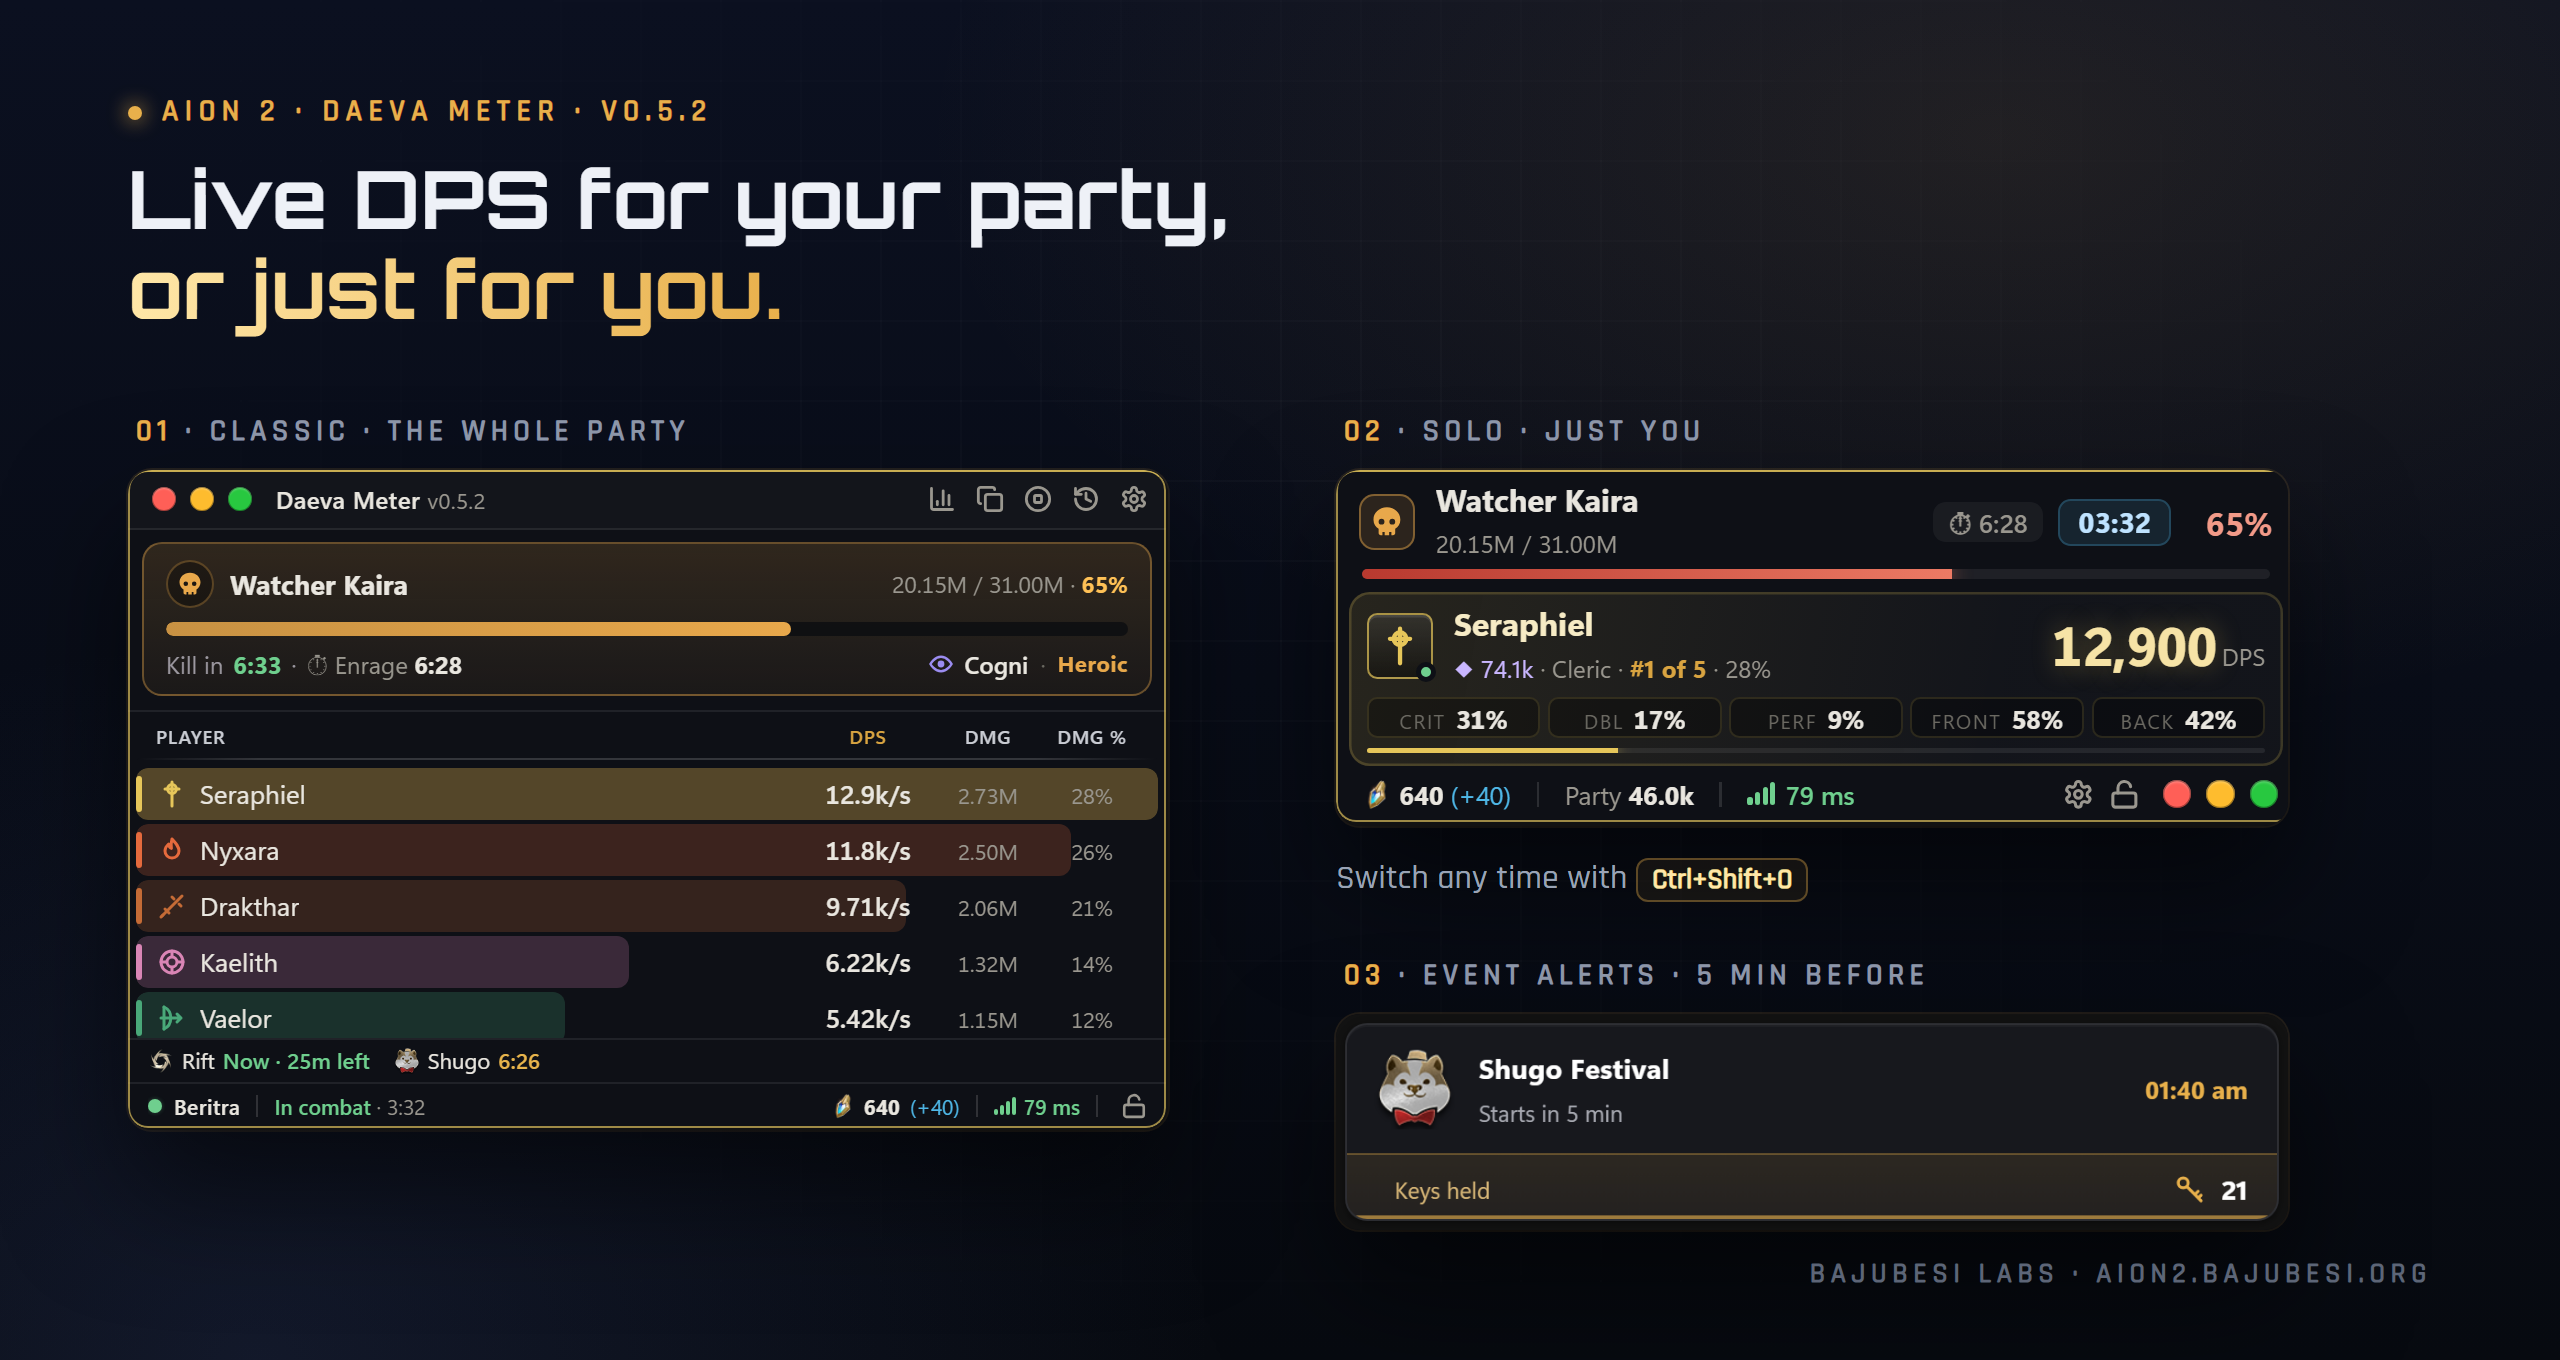
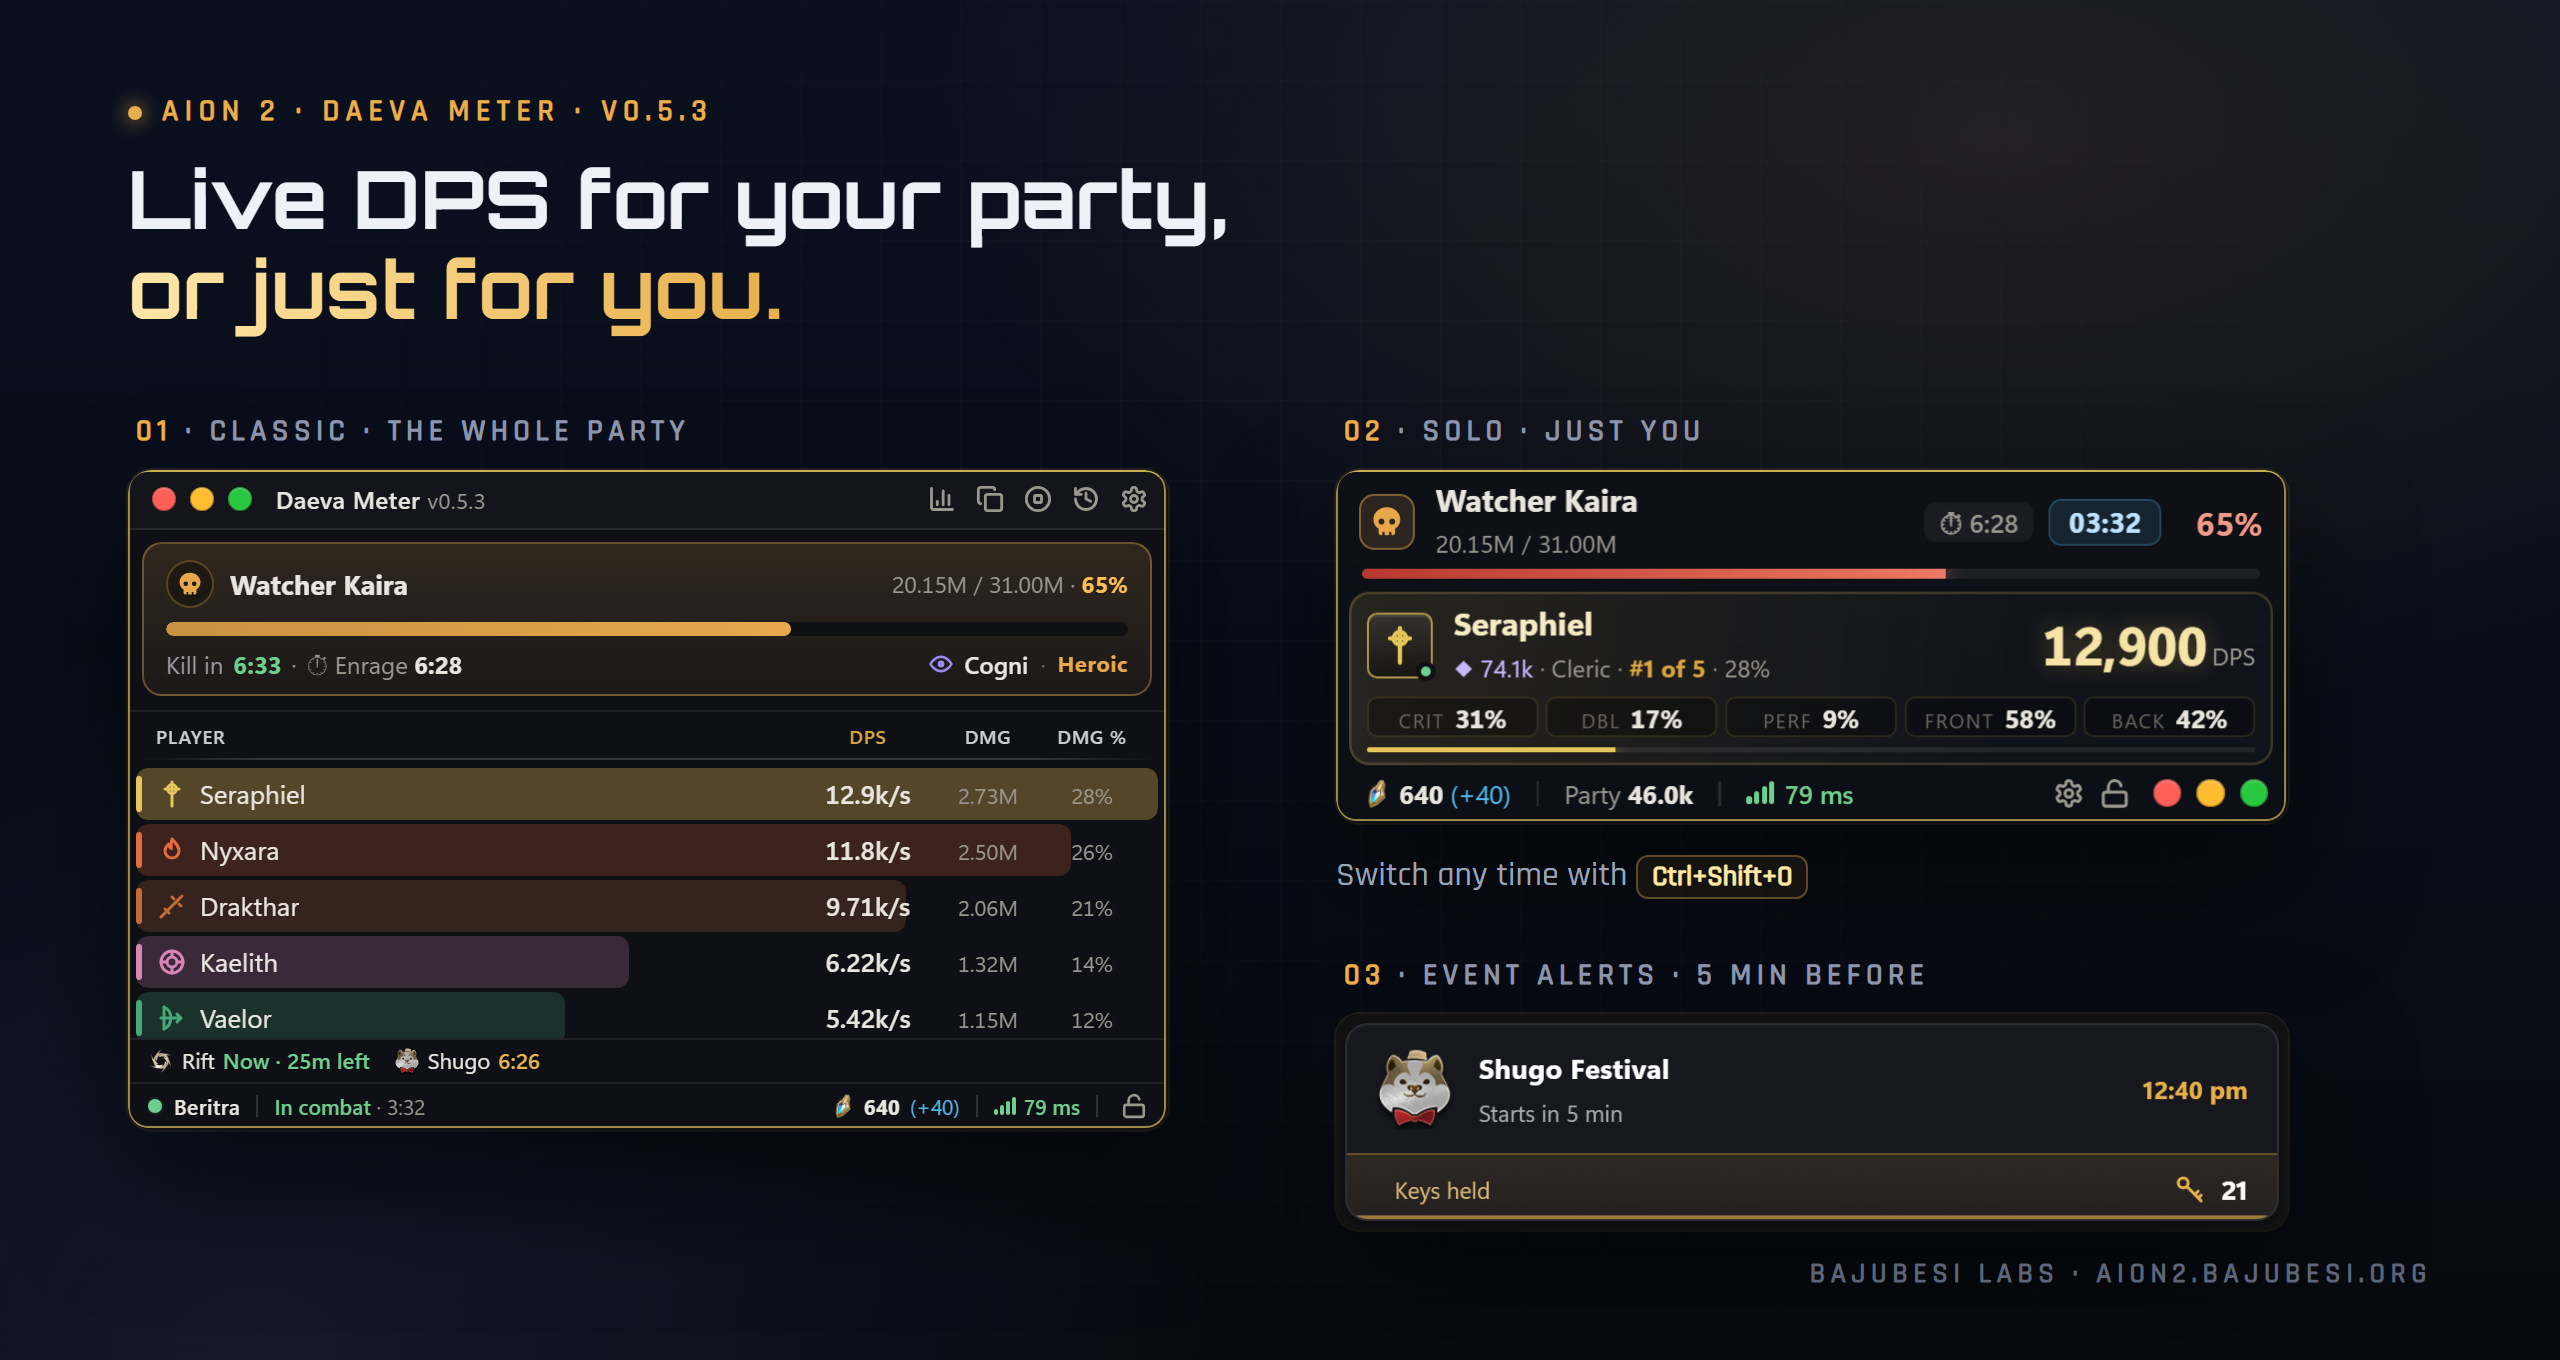
Meter 0.5.3 pictures, weak ETag on /api/aion2gg/ (v1.8.1)
- public/meter-showcase.png and daeva-meter.png re-rendered for meter 0.5.3
  (Solo no longer cut off); site picture is now 468 px wide.
- If-None-Match accepts W/"…" (Cloudflare weakens the ETag when it
  compresses), lists and *, so daily meter checks get 304.

diff --git a/source/public/index.html b/source/public/index.html
@@ -163,7 +163,7 @@
           <a class="btn gh" href="https://github.com/fhazal/DAEVA-dps-meter" target="_blank" rel="noopener noreferrer"><svg class="gh-mark" viewBox="0 0 16 16" aria-hidden="true"><path fill="currentColor" d="M8 0C3.58 0 0 3.58 0 8c0 3.54 2.29 6.53 5.47 7.59.4.07.55-.17.55-.38 0-.19-.01-.82-.01-1.49-2.01.37-2.53-.49-2.69-.94-.09-.23-.48-.94-.82-1.13-.28-.15-.68-.52-.01-.53.63-.01 1.08.58 1.23.82.72 1.21 1.87.87 2.33.66.07-.52.28-.87.51-1.07-1.78-.2-3.64-.89-3.64-3.95 0-.87.31-1.59.82-2.15-.08-.2-.36-1.02.08-2.12 0 0 .67-.21 2.2.82.64-.18 1.32-.27 2-.27.68 0 1.36.09 2 .27 1.53-1.04 2.2-.82 2.2-.82.44 1.1.16 1.92.08 2.12.51.56.82 1.27.82 2.15 0 3.07-1.87 3.75-3.65 3.95.29.25.54.73.54 1.48 0 1.07-.01 1.93-.01 2.2 0 .21.15.46.55.38A8.013 8.013 0 0016 8c0-4.42-3.58-8-8-8z"/></svg>Open source on GitHub <span class="ic ext" data-icon="external-link"></span></a>
           <p class="signed"><span class="ic" data-icon="shield"></span><a href="https://github.com/fhazal/DAEVA-dps-meter/blob/main/CODE_SIGNING.md" target="_blank" rel="noopener noreferrer">Code signing policy</a></p>
         </div>
-        <img src="/daeva-meter.png" alt="Daeva Meter: an event alert, the Classic layout and the Solo layout" width="460" height="690" loading="lazy">
+        <img src="/daeva-meter.png" alt="Daeva Meter: an event alert, the Classic layout and the Solo layout" width="468" height="690" loading="lazy">
       </div>
     </section>
 

diff --git a/source/tests/aion2gg-data.test.ts b/source/tests/aion2gg-data.test.ts
@@ -2,7 +2,7 @@ import { mkdtempSync, mkdirSync, writeFileSync } from "node:fs";
 import { tmpdir } from "node:os";
 import { join } from "node:path";
 import { describe, expect, it } from "vitest";
-import { readAion2gg } from "../src/services/aion2gg-data.js";
+import { etagMatches, readAion2gg } from "../src/services/aion2gg-data.js";
 
 describe("aion2.gg boss data for Daeva Meter", () => {
   const root = mkdtempSync(join(tmpdir(), "daeva-gg-"));
@@ -24,5 +24,17 @@ describe("aion2.gg boss data for Daeva Meter", () => {
     expect(await readAion2gg("boss-skills.json")).toBeNull();
     writeFileSync(join(root, "aion2gg", "boss-skills.json"), '{"1000860": "Att');
     expect(await readAion2gg("boss-skills.json")).toBeNull();
+  });
+});
+
+describe("aion2.gg If-None-Match", () => {
+  it("accepts the weak form Cloudflare hands out, lists and *", () => {
+    const tag = '"0123456789abcdef"';
+    expect(etagMatches(tag, tag)).toBe(true);
+    expect(etagMatches(`W/${tag}`, tag)).toBe(true);
+    expect(etagMatches(`"other", W/${tag}`, tag)).toBe(true);
+    expect(etagMatches("*", tag)).toBe(true);
+    expect(etagMatches('"other"', tag)).toBe(false);
+    expect(etagMatches(undefined, tag)).toBe(false);
   });
 });

diff --git a/source/src/web/server.ts b/source/src/web/server.ts
@@ -10,7 +10,7 @@ import { getPortrait, isPortraitId } from "../services/portraits.js";
 import { getGartuaStore } from "../persistence/store.js";
 import { getCachedLiveGartuaEstimate } from "../services/live-gartua.js";
 import { readMirrored, readMirroredImage } from "../services/gaming-tools-mirror.js";
-import { readAion2gg } from "../services/aion2gg-data.js";
+import { etagMatches, readAion2gg } from "../services/aion2gg-data.js";
 import { userForToken } from "../persistence/meter.js";
 import { dpsMonthJson, dpsTodayJson } from "../services/meter-daily.js";
 import { allowUpload, ingestUpload } from "../services/meter-ingest.js";
@@ -466,7 +466,7 @@ async function handle(req: IncomingMessage, res: ServerResponse): Promise<void> 
       sendJson(res, 404, JSON.stringify({ error: "Not available" }), head);
       return;
     }
-    if (req.headers["if-none-match"] === file.etag) {
+    if (etagMatches(req.headers["if-none-match"], file.etag)) {
       res.writeHead(304, { ...SECURITY_HEADERS, ETag: file.etag, "Cache-Control": "public, max-age=3600" });
       res.end();
       return;

diff --git a/source/src/services/aion2gg-data.ts b/source/src/services/aion2gg-data.ts
@@ -19,6 +19,16 @@ export function aion2ggDir(): string {
 type Cached = { mtimeMs: number; size: number; body: Buffer; etag: string };
 const cache = new Map<string, Cached>();
 
+/**
+ * If-None-Match matches our ETag. Cloudflare turns the ETag weak (W/"…") when
+ * it compresses the reply, and the meter sends that back; a list or * counts too.
+ */
+export function etagMatches(header: string | string[] | undefined, etag: string): boolean {
+  if (!header) return false;
+  const tags = (Array.isArray(header) ? header.join(",") : header).split(",").map((t) => t.trim().replace(/^W\//, ""));
+  return tags.includes("*") || tags.includes(etag);
+}
+
 /** A served file with its ETag, or null when it isn't there (or isn't valid JSON). */
 export async function readAion2gg(file: string): Promise<{ body: Buffer; etag: string } | null> {
   if (!(AION2GG_FILES as readonly string[]).includes(file)) return null;

diff --git a/source/src/version.ts b/source/src/version.ts
@@ -3,7 +3,7 @@
  * Bump it with each release (new features: 1.4.0, fixes only: 1.3.1), in
  * step with package.json and CHANGELOG.md; a test checks they agree.
  */
-export const DAEVA_VERSION = "1.8.0";
+export const DAEVA_VERSION = "1.8.1";
 export const DAEVA_NAME = `Daeva v${DAEVA_VERSION}`;
 
 /** The maker's mark, at the end of every card's footer. */

diff --git a/CHANGELOG.md b/CHANGELOG.md
@@ -4,6 +4,11 @@ Daeva, the AION 2 Discord bot behind aion2.bajubesi.org. Versions follow
 the footer on every card: new features raise the middle number (1.4.0),
 fixes only raise the last (1.3.1).
 
+## 1.8.1 · 25 October 2026
+
+- **Daeva Meter pictures for 0.5.3:** the website's meter section and the release posts show the 0.5.3 meter, and the Solo layout is no longer cut off on the right.
+- **Daily boss data check for meters:** `/api/aion2gg/` now answers "unchanged" when the meter sends back the weak ETag (`W/"…"`) Cloudflare hands out, so meters don't download the same files every day.
+
 ## 1.8.0 · 26 October 2026
 
 - **Boss enrage times for Daeva Meter:** the site serves aion2.gg's boss data (enrage times and boss skill names, *Boss data: aion2.gg*) at `/api/aion2gg/`, from the copy their team sends after each game patch. Meters 0.5.3 and newer download it once a day for their Frenzy countdown.
